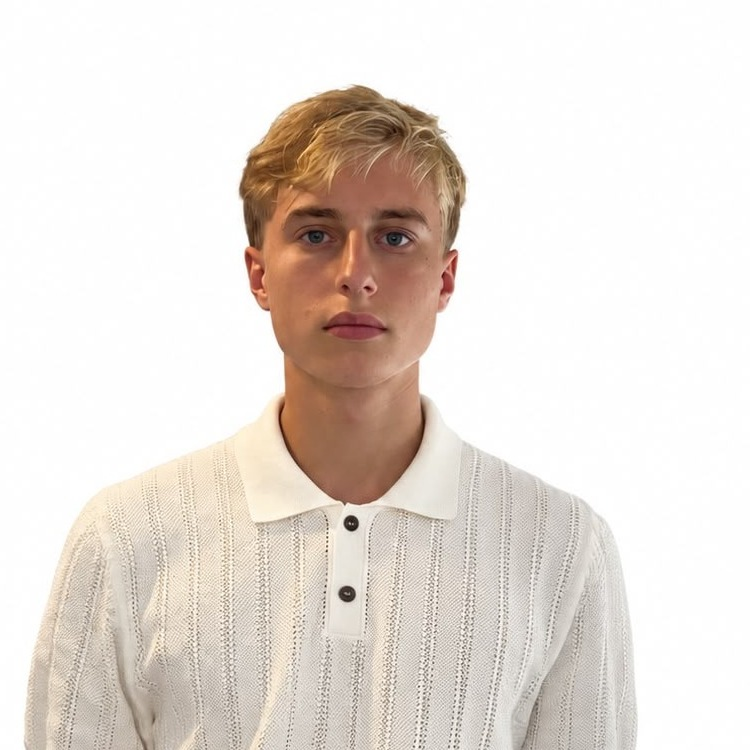
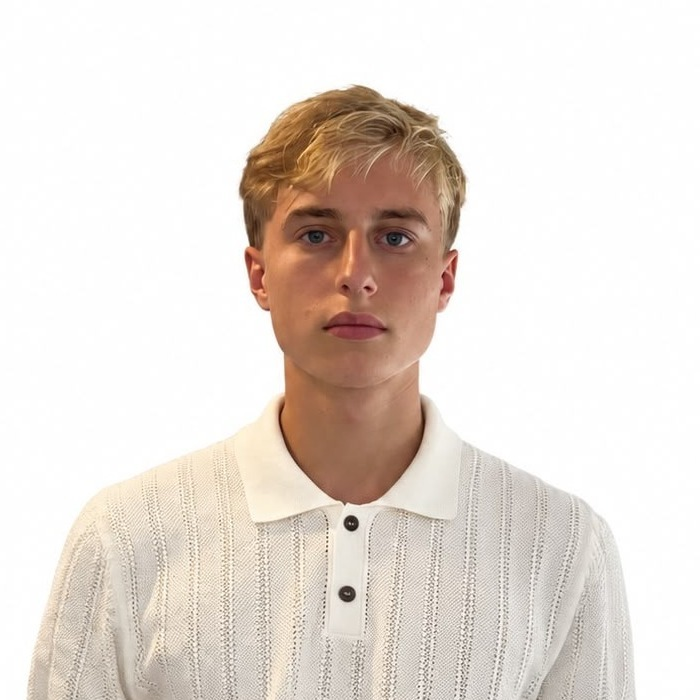
Recenter portrait crop so face is horizontally centered

Changed region(s): [[0.03, 0.09, 0.93, 1.0]]

diff --git a/index.html b/index.html
@@ -61,7 +61,7 @@
         </div>
         <div class="hero-portrait">
           <div class="portrait-frame">
-            <img src="assets/portrait.jpg?v=2" alt="Portrait von Johannes Kuchmetzki">
+            <img src="assets/portrait.jpg?v=3" alt="Portrait von Johannes Kuchmetzki">
           </div>
           <div class="portrait-tag">Berlin · Reseller &amp; Dev</div>
         </div>
